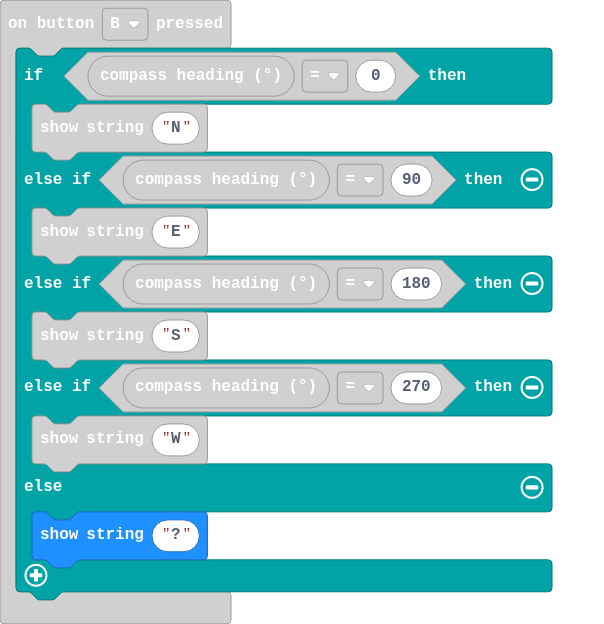
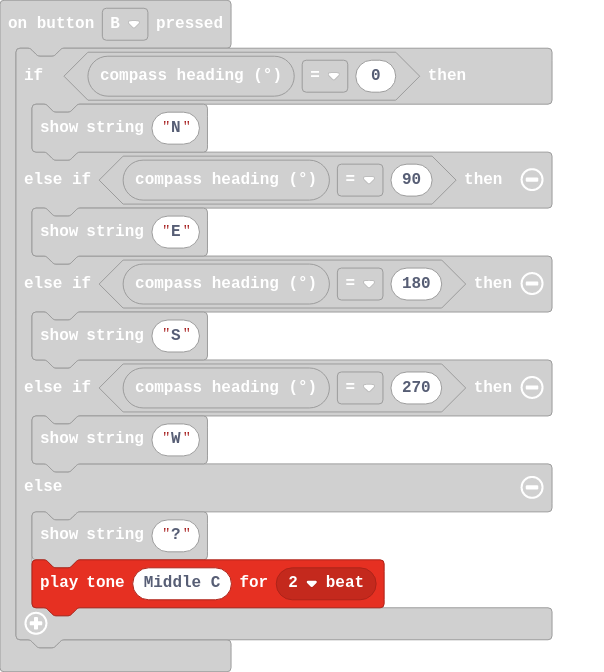
i forget to add audio in a place!

diff --git a/main.ts b/main.ts
@@ -73,6 +73,7 @@ input.onButtonPressed(Button.B, function () {
         basic.showString("W")
     } else {
         basic.showString("?")
+        music.playTone(262, music.beat(BeatFraction.Double))
     }
 })
 input.onGesture(Gesture.Shake, function () {
